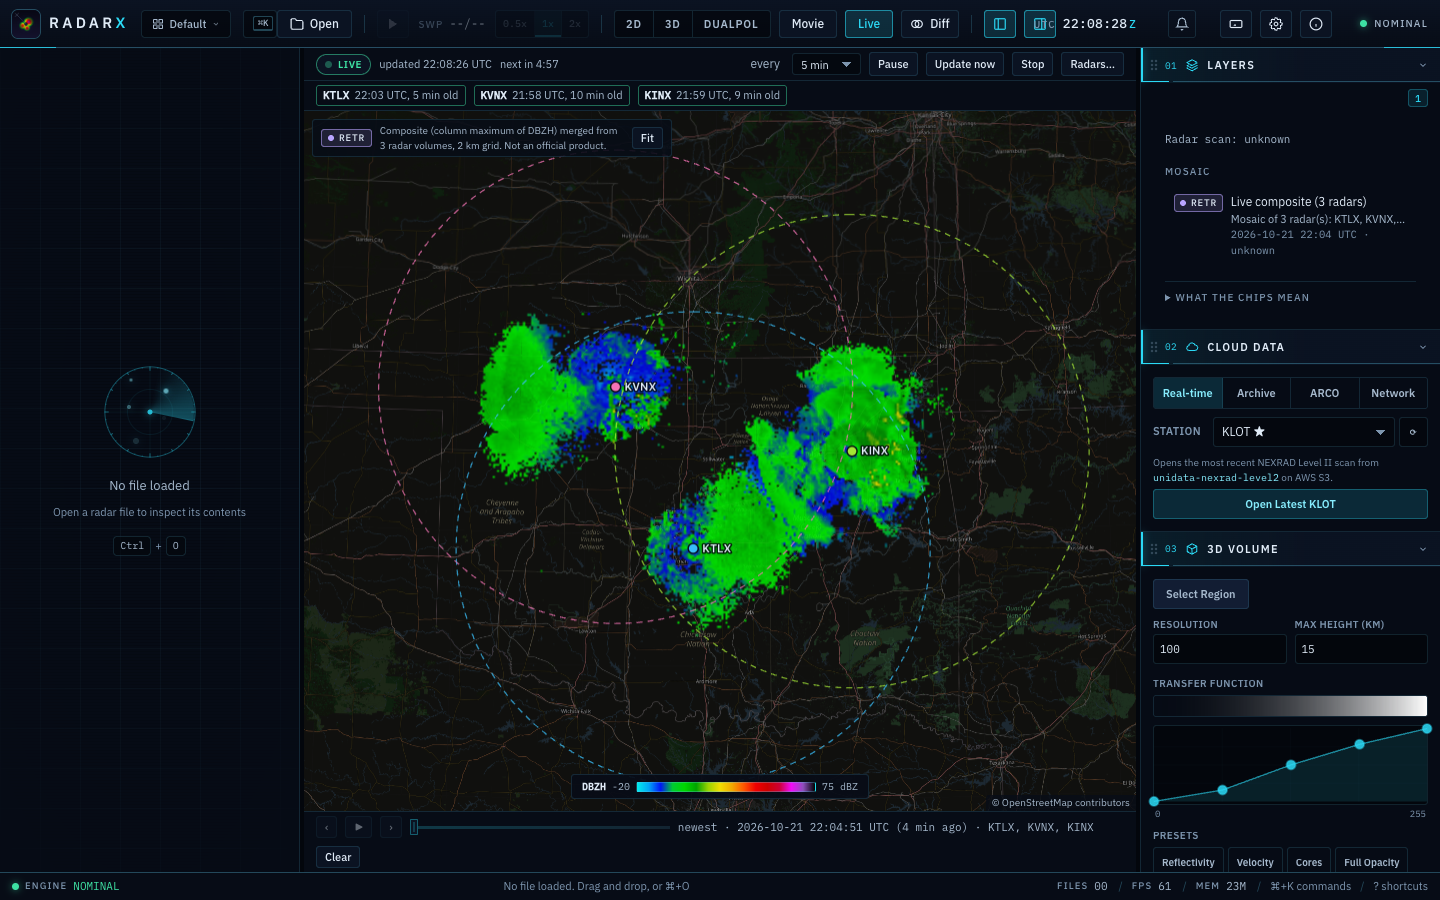
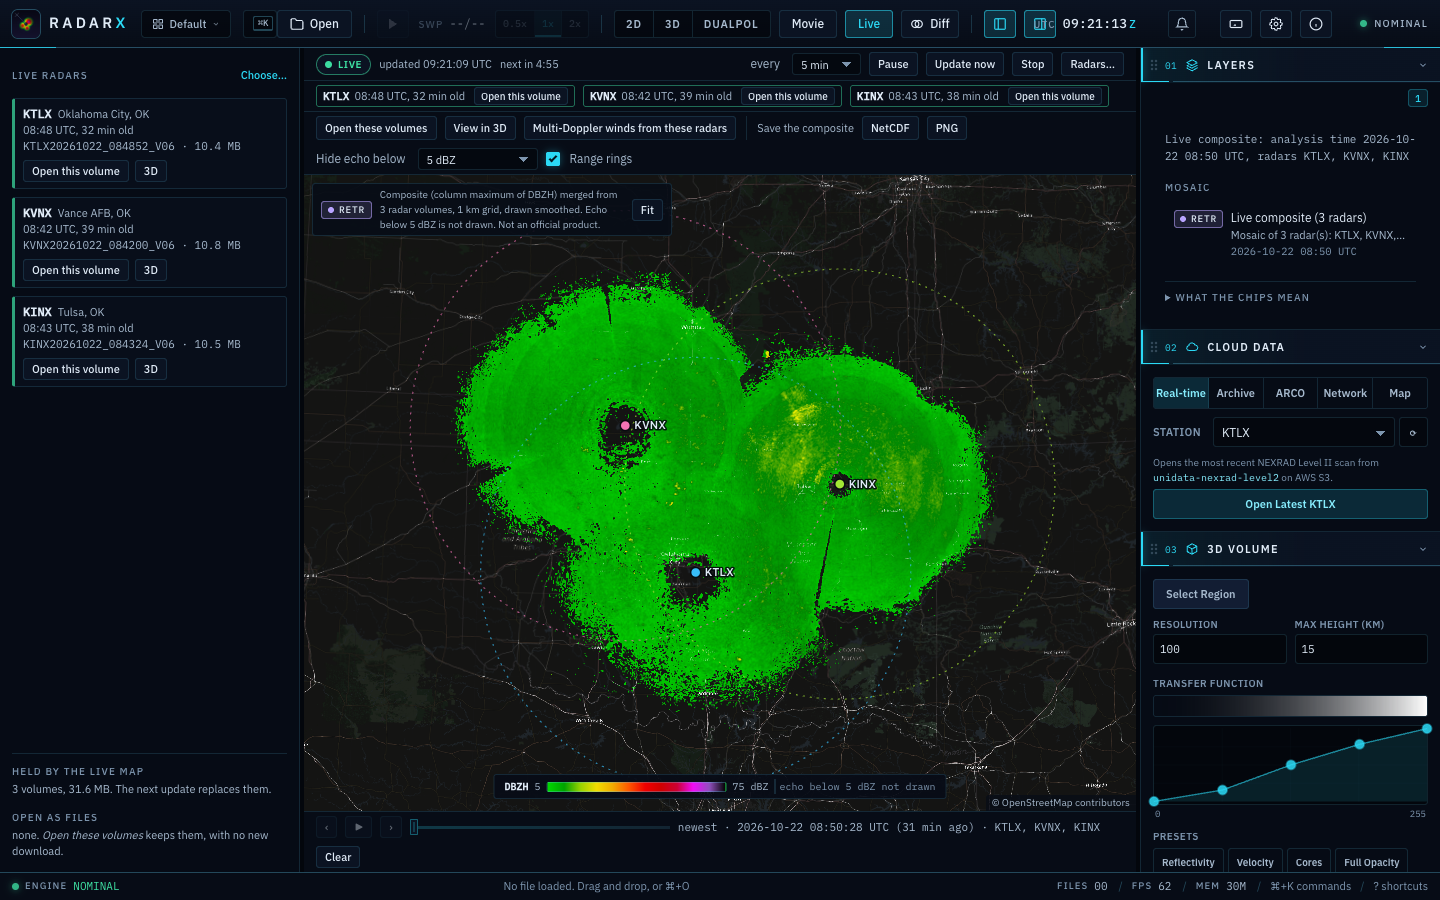
docs: the live map's data, display floor and map; screenshots

diff --git a/docs/LIVE.md b/docs/LIVE.md
@@ -27,7 +27,22 @@ The choice is saved with the other settings on this computer.
 ## What you see
 
 ```{image} images/ui/live-map.png
-:alt: The live map: a composite of three radars on a map with the LIVE status line above it
+:alt: The live map in the dark theme: a composite of three radars, the radar list on the left, the status line, the buttons and the display floor above the map
+:width: 90%
+:align: center
+```
+
+```{image} images/ui/live-map-light.png
+:alt: The same live map in the light theme
+:width: 90%
+:align: center
+```
+
+The same picture with *Hide echo below* set to *nothing (all echo)*: the weak blue returns around the radars
+(under about 0 dBZ) are what the default floor of 5 dBZ leaves out.
+
+```{image} images/ui/live-map-all-echo.png
+:alt: The live map with every echo drawn, including weak returns near the radars
 :width: 90%
 :align: center
 ```
@@ -38,13 +53,68 @@ The choice is saved with the other settings on this computer.
   recent volume*, *offline* or *failed: …* with the engine's reason. A radar whose volume could not be
   downloaded is left out of the composite and keeps its chip, so a missing radar is never silent. These are
   the facts the listing returned; nothing is guessed from the clock.
-* **The composite**: the column maximum of reflectivity (`DBZH`) of every radar, gridded at 2 km and merged
-  with range-dependent weights, exactly as the Mosaic panel's *composite* product ({doc}`MOSAIC`). Each
-  radar's site and 230 km range ring are drawn in its colour; the legend is at the bottom.
+* **The left pane** lists the radars: name, the volume each answered with and how old it is, the file name and
+  size of the volume the app holds, and buttons to open it (see *Using the data behind the picture*). At the
+  bottom it says how many volumes are held and how many are open as files, with the disk they use.
+* **The composite**: the column maximum of reflectivity (`DBZH`) of every radar, merged with
+  range-dependent weights, exactly as the Mosaic panel's *composite* product ({doc}`MOSAIC`). The grid is
+  **1 km for up to four radars**, 1.5 km for five or six and 2 km for seven or eight; it is made coarser
+  when the radars are far apart or when your computer's memory or time budget needs it, and the label on the
+  map always states the grid that was used. The picture is drawn **smoothed** (several drawn pixels per grid
+  cell) so cells do not show as blocks; the values themselves stay on the grid.
+* **Hide echo below N dBZ**: reflectivity below 5 dBZ is not drawn, as on the National Weather Service's
+  own displays: it is mostly clear-air returns, insects, birds and noise. The number is a visible setting
+  (here above the map and in Settings → Data → Live map; *nothing (all echo)* draws everything) and is
+  written next to the colour legend and in the label on the map. It only changes what is drawn: the grid
+  values, the exports and the hover values are not changed. If the weather is genuinely light, lower it;
+  to remove clear-air echo properly, open the volumes and use the cleaning tools on them. A frame of the
+  recent loop that the engine can no longer redraw keeps the number it was drawn with and says so.
+* **Map**: the basemap is toned down under the echo, and the place names, roads and boundaries are drawn again
+  **above** the echo so you can always tell where it is. Each radar's site and 230 km range ring are drawn in
+  its colour; the rings are thin and dotted and can be switched off (*Range rings*). The view opens on the
+  radars' range discs before the first picture exists, and on the picture afterwards.
 * **Provenance**: the composite is **retrieved** (`RETR`: a merged, gridded product), the volumes behind it
-  are **observed** Level II data. The layer is listed in the Layers panel with its provenance record and the
-  analysis time (the newest volume start among its radars), and the chip at the top left of the map says
-  what the picture is. It is not an official product.
+  are **observed** Level II data. The layer is listed in the Layers panel with its provenance record, the
+  analysis time (the newest volume start among its radars) and the radars it was merged from, and the chip
+  at the top left of the map says what the picture is. It is not an official product.
+
+## Using the data behind the picture
+
+The volumes the live map downloaded are ordinary Level II files, and the app keeps them for as long as the
+live map holds them. A row of buttons under the radar chips uses them; **none of them downloads anything**
+(the download you allowed already fetched the files; the buttons say how many volumes and how many MB).
+
+* **Open these volumes** (and **Open this volume** on each radar chip and in the left pane) opens the volumes
+  as normal files: the 2D and 3D viewers, the 3D volume, Mosaic, Multi-Doppler, cells, modules, the cleaning
+  tools and export all work on them. Opened volumes **stay when the live map updates** or stops: the app
+  keeps its own copy of the file for each, says how much disk they use ("until you close them"), and gives
+  the disk back when you close the file. At most 8 live volumes can be open as files at once. A volume that
+  is already open is not opened twice.
+* **View in 3D** opens the volumes and shows them in the 3D view, as for any opened file (the first radar is
+  in front; the file tabs switch).
+* **Multi-Doppler winds from these radars** opens the volumes, opens the Multi-Doppler panel with exactly
+  these radars ticked, and runs it. If the radars do not overlap (or only one has a volume), the panel and the
+  message under the status line show the engine's own explanation. Winds need two radars whose coverage
+  overlaps and whose beams cross at a useful angle, so choose neighbouring radars ({doc}`MULTIDOPPLER`).
+  The volumes of different radars are a few minutes apart; the panel warns when they are.
+* **Save the composite** writes **NetCDF** (the merged grid with its provenance record, the analysis time and
+  the data credit; the values are not floored) or a **georeferenced PNG** (as drawn, with the world file and
+  projection file that GIS programs read, and the credit in the PNG's text). Both say where the volumes came
+  from (NOAA NEXRAD Level II, distributed by Unidata on AWS Open Data, US government data, credit asked for)
+  and that the product is not official. The buttons act on the newest frame; go back to it first if you are
+  looking at the recent loop.
+
+```{image} images/ui/live-open-3d.png
+:alt: The volumes of the live map opened as files and shown in the 3D view
+:width: 90%
+:align: center
+```
+
+```{image} images/ui/live-multidoppler.png
+:alt: Multi-Doppler winds from the three live radars, with the three radars ticked in the Wind panel
+:width: 90%
+:align: center
+```
 * **Recent loop** (bottom): the last 12 composites are kept in memory (about an hour at a 5 minute interval);
   ◀ ▶ step, the play button loops them, the slider jumps, `,` and `.` step from the keyboard. The line says
   which frame is shown, its analysis time and the radars in it; **Newest** returns to the live frame. A frame
@@ -68,7 +138,8 @@ then leaves the timer off (**Resume** or **Update now** ask again). *Allow for t
 run while the app is open: every update repeats the listing and downloads only a radar's new volume (about
 the size shown, each time a radar has one). Both answers are kept in memory only and forgotten when you quit
 or reload; allowing the listings never covers a download, so the sizes are always shown at least once.
-*Cancel* stops the live map and nothing is sent. **Offline mode** (Environment data settings) pauses the live
+*Cancel* stops the live map and nothing is sent. Opening, viewing or analysing the volumes and saving the
+composite need no further consent: they use the files the second dialog already fetched. **Offline mode** (Environment data settings) pauses the live
 map before any request.
 
 ## Limits, bandwidth and memory
@@ -80,9 +151,12 @@ map before any request.
   a few minutes behind the radar, and at best as fresh as the bucket.
 * **Bandwidth**: one listing per radar per update (about 0.1 MB each) and one Level II file per radar only
   when it is new (typically 3 to 12 MB each). Nothing is prefetched.
-* **Memory**: the engine keeps one volume per radar (older ones are dropped, at most 8 radars and 768 MB by
-  the listed sizes), and the app keeps at most 12 composite images. **Stop** releases the engine's volumes;
-  closing the window does too.
+* **Memory and disk**: the engine keeps one volume per radar (older ones are dropped, with their files, at
+  most 8 radars and 768 MB by the listed sizes), and the app keeps at most 12 composite images. **Stop**
+  releases the engine's volumes; closing the window does too. Volumes you opened as files are the exception:
+  they stay until you close them (see above). A 1 km composite of three radars took about 2 seconds to merge
+  in our test on a laptop and about 1 GB of working memory; the grid is coarsened automatically when a
+  computer cannot afford that.
 * **Failures**: a radar that has no recent volume or whose download fails is reported on its chip and left
   out; the composite is built from the rest, and only when no radar is usable is the update an error. After
   an error the next try waits the interval, then twice, four times the interval and so on up to an hour, so
@@ -90,8 +164,11 @@ map before any request.
   connection fails the running update and the map says so; the frames stay.
 * Every update is an operation in the status-bar tray (Cancel stops waiting; the engine's download itself
   cannot be aborted).
-* The hover read-out of values, exports and the 3D view are not available for the live composite in this
-  version: use the Mosaic panel on files opened through the Cloud data panel for those.
+* The hover read-out of values is not available on the live composite itself; open the volumes and use the
+  Mosaic panel on them for that. The 3D view of the *merged* composite is not offered either: *View in 3D*
+  shows the opened radar volumes.
+* The picture follows the display floor by redrawing the composite the engine still holds (it keeps the last
+  few). An older frame of the loop may keep the floor it was drawn with.
 * There is no forecast. The recent loop shows past composites only, each at its own analysis time; the
   frames are kept so that a nowcast layer can be built on them later, and such a layer will be labelled as
   a forecast with its lead time ({doc}`SCIENCE`).

diff --git a/docs/changes/live-map-open-and-look.md b/docs/changes/live-map-open-and-look.md
@@ -1,0 +1,2 @@
+- **The live map's data are now yours to use:** *Open these volumes* (and *Open this volume* on each radar) opens the volumes behind the picture as normal files, so the 2D and 3D viewers, Mosaic, Multi-Doppler, cells, modules, cleaning and export all work on them, with no new download. They stay open when the live map updates, the app says how much disk they use, and closing a file gives the disk back (at most 8 at once). *View in 3D* and *Multi-Doppler winds from these radars* do the common cases in one click; if the radars do not overlap, the engine's own explanation is shown. *Save the composite* writes NetCDF or a georeferenced PNG with the NEXRAD credit and the analysis time. The Layers panel now says when the live composite is valid and which radars it was made of, instead of "Radar scan: unknown".
+- **The live map looks better and says what it draws:** echo below 5 dBZ (the National Weather Service convention) is no longer painted, as a visible setting *Hide echo below N dBZ* whose number is also in the legend and the label (the data and exports are not changed); the grid is 1 km for up to four radars and is named in the label; the picture is smoothed instead of blocky; place names, roads and boundaries are drawn above the echo on a calmer basemap in both themes; range rings are thin and can be switched off; the view opens on the radars' footprint; and the left pane lists the radars and the volumes held instead of "No file loaded".

diff --git a/docs/settings.md b/docs/settings.md
@@ -33,6 +33,8 @@ engine on your own computer. See {doc}`cluster`.
 
 The **Data** tab also holds the **Radar sites** switch and the place to load your own list of sites (CSV or JSON); see
 {doc}`RADAR_SITES`. Its **Live map** section lists the default radars of the live map in order (choose them on a map
-with **Choose on the map…**) and how often the live map updates (2 to 15 minutes); see {doc}`LIVE`. Its **Movie components** line (desktop app only) shows whether the optional download the Movie
+with **Choose on the map…**) and how often the live map updates (2 to 15 minutes). It also has **Hide echo below** (reflectivity below this is
+not drawn on the live map; 5 dBZ by default, the National Weather Service convention; a display choice only) and
+**Range rings**; see {doc}`LIVE`. Its **Movie components** line (desktop app only) shows whether the optional download the Movie
 Studio needs (Playwright, about 133 MB on disk; the film itself is encoded by your Chrome) is installed, for which version, how big it is and where it
 lives, with a **Remove** button; the download itself is offered in the Movie Studio, never here (see {doc}`ANIMATE`).
